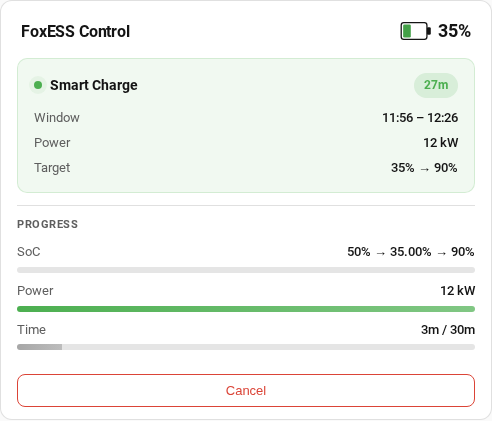
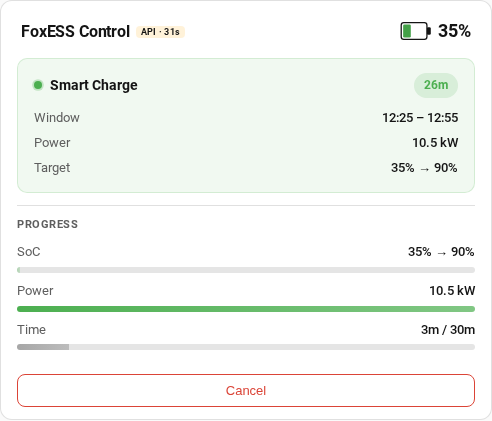
Fix gallery screenshots: wait for SoC propagation before service call
The coordinator's default 50% SoC was being captured as start_soc when
the service call fired before the simulator's SoC had propagated. Now
all gallery tests wait for the SoC to reach the coordinator before
starting sessions.

diff --git a/tests/e2e/test_ui.py b/tests/e2e/test_ui.py
@@ -1360,6 +1360,9 @@ class TestGalleryScreenshots:
         set_inverter_state(
             connection_mode, foxess_sim, ha_e2e, soc=65, solar_kw=0.5, load_kw=1.8
         )
+        ha_e2e.wait_for_numeric_state(
+            "sensor.foxess_battery_soc", "ge", 64, timeout_s=90
+        )
         start, end = _tight_window(30)
         ha_e2e.call_service(
             "foxess_control",
@@ -1400,6 +1403,9 @@ class TestGalleryScreenshots:
         set_inverter_state(
             connection_mode, foxess_sim, ha_e2e, soc=35, solar_kw=0, load_kw=0.5
         )
+        ha_e2e.wait_for_numeric_state(
+            "sensor.foxess_battery_soc", "le", 36, timeout_s=90
+        )
         start, end = _tight_window(30)
         ha_e2e.call_service(
             "foxess_control",
@@ -1425,6 +1431,9 @@ class TestGalleryScreenshots:
         """Control card: active smart discharge with progress bars."""
         set_inverter_state(
             connection_mode, foxess_sim, ha_e2e, soc=80, solar_kw=0.5, load_kw=1.2
+        )
+        ha_e2e.wait_for_numeric_state(
+            "sensor.foxess_battery_soc", "ge", 79, timeout_s=90
         )
         start, end = _tight_window(30)
         ha_e2e.call_service(
